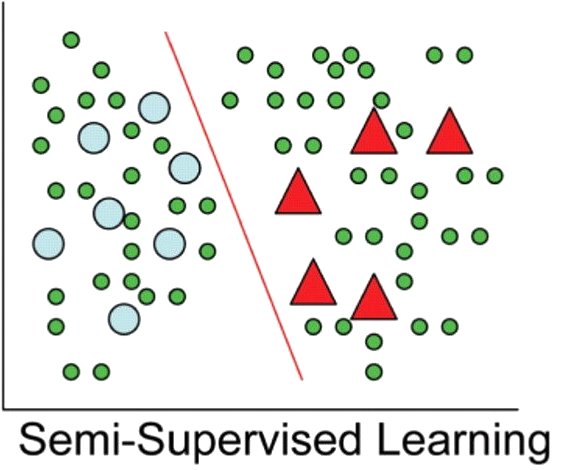
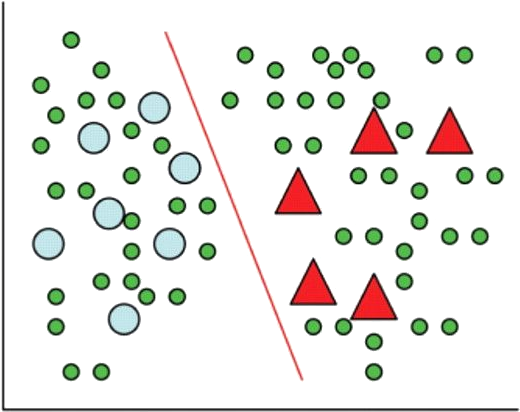
semi

Changed region(s): [[0.0, 0.0, 1.0, 1.0], [0.8615, 0.4078, 0.9846, 0.466], [0.0923, 0.0583, 0.1538, 0.1165]]

diff --git a/cnam/travaux/probatoire/présentation/introduction.tex b/cnam/travaux/probatoire/présentation/introduction.tex
@@ -66,8 +66,8 @@
 
 \end{column}\begin{column}{.5\textwidth}
 
-\only<1>{\imgh{0}{11.5}{semi-labeled}}
-\only<2>{\imgh{0.7}{11.5}{semi-learning}}
+\only<1>{\imgh{0}{10}{semi-labeled}}
+\only<2>{\imgh{0}{10}{semi-learning}}
 
 \end{column}\end{columns}
 \end{frame}
